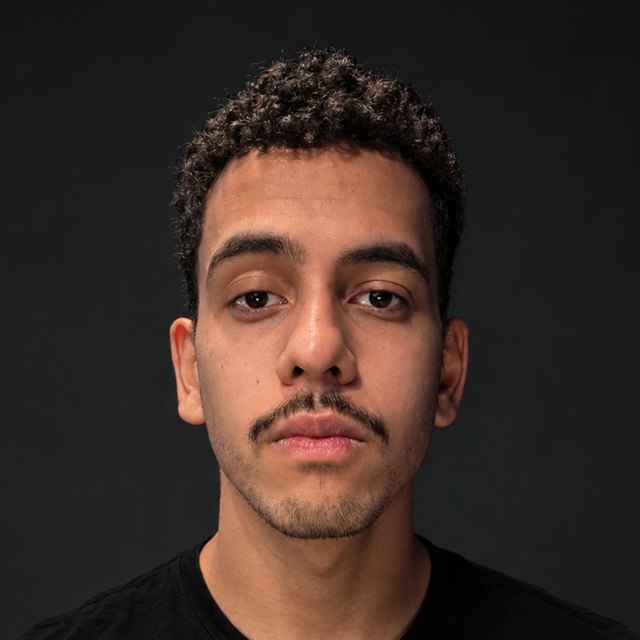
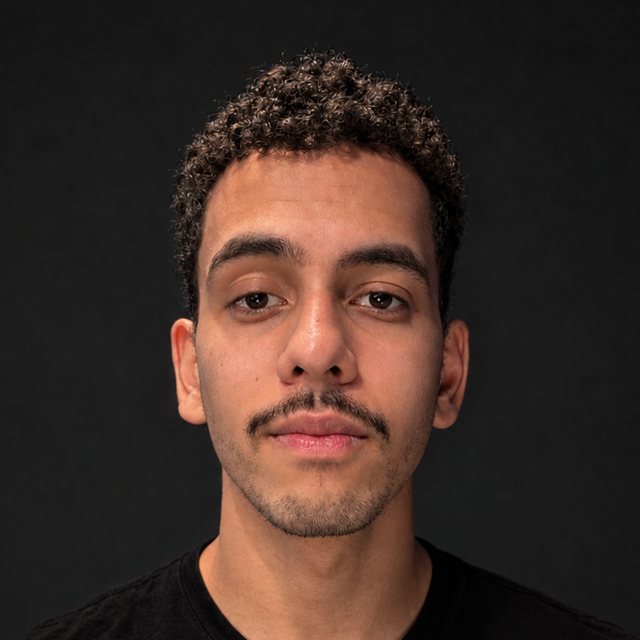
commit

diff --git a/CLAUDE.md b/CLAUDE.md
@@ -23,7 +23,7 @@ Landing page de uma única página: portfólio de um editor de vídeo do nicho *
 
 - `js/videos.js` — único lugar dos vídeos: `{ url, title, thumbnail }` em `longForm` e `shorts`. `url` vazio ⇒ card vazio e o player mostra "Coming soon"; `title` vazio ⇒ sem título.
 - `index.html` — textos marcados com `<!-- EDITE -->`. O nome aparece em `<title>`, logo, intro (`h1`), `alt` da foto e rodapé; o e-mail em 3 lugares (texto, `mailto:`, `data-copy`). Redes em `ul.socials` no Contact (links abrem em nova aba; `[data-copy]` aceita `data-copy-msg` para o texto do toast).
-- Foto: `assets/img/editor.jpg` (640×640, ~44 KB), recortada em quadrado centrado no rosto a partir do original `Retrato profissional em fundo escuro.png` (raiz do projeto, 1086×1448, não é usado pelo site). Recorte feito com System.Drawing no PowerShell: lado = 79% da largura, centralizado, começando 5,5% do topo. Se a foto não existir, o `onerror` remove o `<img>` e fica o ícone placeholder.
+- Foto: `assets/img/editor.jpg` (640×640, ~40 KB, JPEG qualidade 85), recortada em quadrado centrado no rosto a partir do original `Retrato profissional em fundo escuro.png` (raiz do projeto, 1086×1448, não é usado pelo site). Recorte feito com System.Drawing no PowerShell (HighQualityBicubic): quadrado de 860px, x = 113, y = 75 (cabelo perto do topo, gola da camiseta embaixo). Se o usuário trocar o original, refaça o recorte mantendo esse enquadramento. Se a foto não existir, o `onerror` remove o `<img>` e fica o ícone placeholder.
 - Comentários voltados ao usuário ficam em português; comentários técnicos, em inglês.
 
 ## Arquitetura
